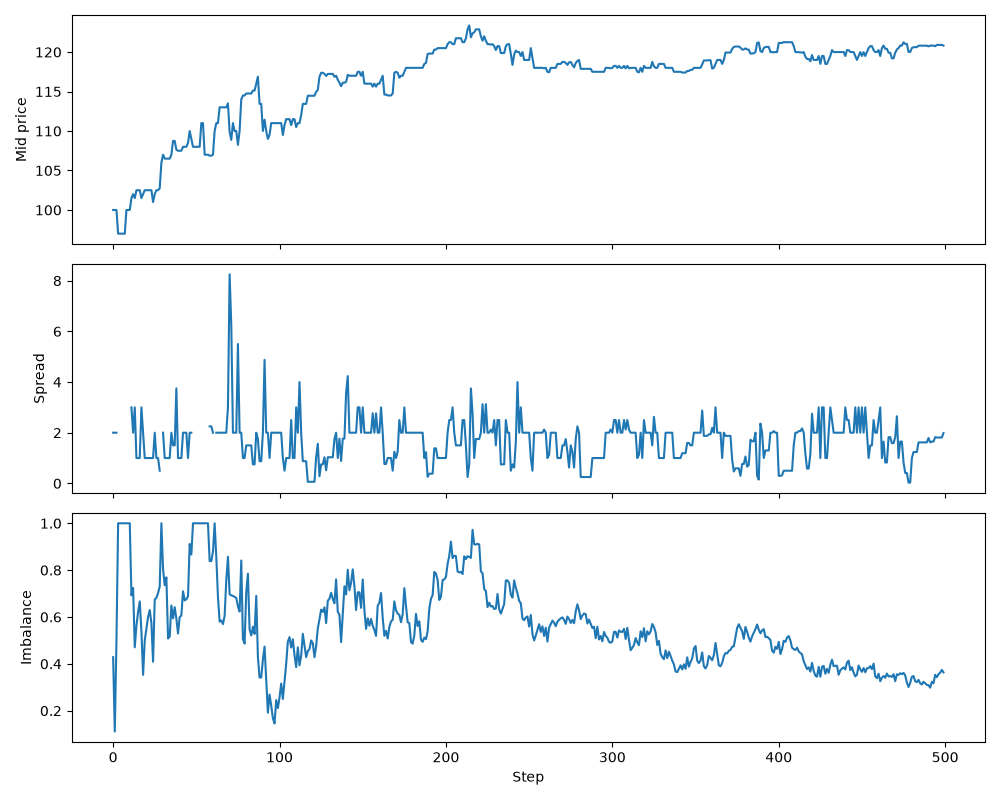
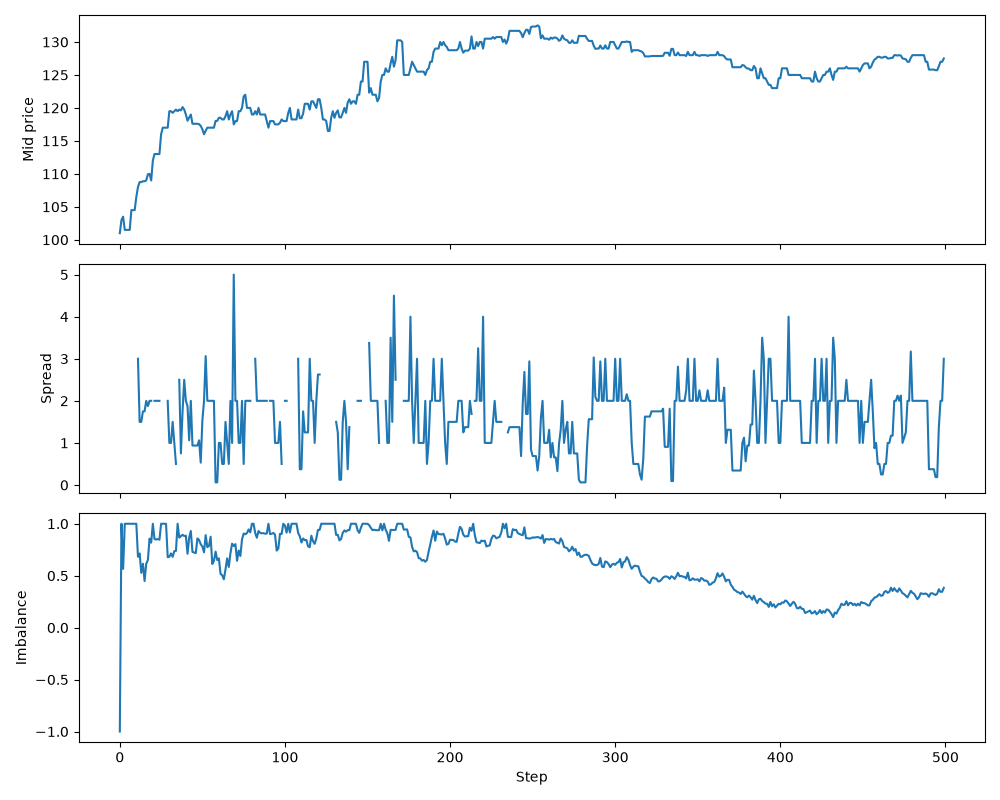
heap-based index update

diff --git a/benchmarks/bench_best_price.py b/benchmarks/bench_best_price.py
@@ -1,0 +1,57 @@
+# benchmarks/bench_best_price.py
+"""
+Compares the old approach (max()/min() over every price level) against
+the heap-based lookup now used in LimitOrderBook._best_bid()/_best_ask(),
+across a growing number of price levels.
+
+Run: python benchmarks/bench_best_price.py
+"""
+
+import heapq
+import random
+import time
+
+
+def bench_dict_max(n_levels: int, n_calls: int) -> float:
+    """The old approach: O(n) scan over every price level on every call."""
+    # Build a dict of n_levels random "prices" -> dummy value, same shape as
+    # LimitOrderBook.bids. Values don't matter here, only the keys (prices).
+    d = {float(p): 1 for p in random.sample(range(1, 1_000_000), n_levels)}
+
+    start = time.perf_counter()
+    for _ in range(n_calls):
+        max(d.keys())  # O(n): has to look at every key to find the biggest one
+    return time.perf_counter() - start  # total time for n_calls lookups
+
+
+def bench_heap(n_levels: int, n_calls: int) -> float:
+    """The new approach: O(1) peek at the top of a heap-based index."""
+    d = {float(p): 1 for p in random.sample(range(1, 1_000_000), n_levels)}
+
+    # Negate every price so a min-heap behaves like a max-heap (see book.py's
+    # _bid_heap for the real version of this trick).
+    heap = [-p for p in d]
+    heapq.heapify(heap)  # O(n), but only paid once here, not once per lookup
+
+    start = time.perf_counter()
+    for _ in range(n_calls):
+        # This loop is the same lazy-deletion logic as _best_bid()/_best_ask():
+        # peek the top, and only pop if it's stale. In this benchmark nothing
+        # is ever deleted from `d`, so the top is always valid and this loop
+        # body runs exactly once per call -> O(1) in practice.
+        while heap:
+            price = -heap[0]  # O(1): just reading index 0, undoing the negation
+            if price in d:  # O(1): dict membership check
+                break  # top of heap is still a real price level - that's our answer
+            heapq.heappop(heap)  # stale entry (would only happen after a deletion)
+    return time.perf_counter() - start
+
+
+if __name__ == "__main__":
+    print(f"{'levels':>8}  {'dict max()':>12}  {'heap peek':>12}  {'speedup':>8}")
+    for n in [10, 100, 1_000, 10_000, 50_000]:
+        # Same n_levels and n_calls for both, so the only thing that differs
+        # between the two timings is O(n) scan vs O(1) peek.
+        t_dict = bench_dict_max(n, 5000)
+        t_heap = bench_heap(n, 5000)
+        print(f"{n:8d}  {t_dict * 1000:10.2f}ms  {t_heap * 1000:10.2f}ms  {t_dict / t_heap:7.1f}x")

diff --git a/lob/book.py b/lob/book.py
@@ -1,6 +1,7 @@
 # lob/book.py
 
 from collections import deque
+import heapq
 from typing import Any, Deque, Dict, List, Literal, Optional, Tuple
 
 Side = Literal["buy", "sell"]
@@ -27,11 +28,25 @@ class LimitOrderBook:
             None  # cached mid price, used as a fallback once the book empties out
         )
 
+        # heaps - see read_me and benchmarks/bench_best_price.py for why we use heaps to track best bid/ask
+        self._bid_heap: List[float] = []
+        self._ask_heap: List[float] = []
+
     def _best_bid(self) -> Optional[float]:
-        return max(self.bids.keys()) if self.bids else None  # Returns the highest bid price
+        while self._bid_heap:
+            price = -self._bid_heap[0]
+            if price in self.bids:
+                return price
+            heapq.heappop(self._bid_heap)  # stale entry: that price level no longer exists
+        return None
 
     def _best_ask(self) -> Optional[float]:
-        return min(self.asks.keys()) if self.asks else None  # returns min ask price
+        while self._ask_heap:
+            price = self._ask_heap[0]
+            if price in self.asks:
+                return price
+            heapq.heappop(self._ask_heap)  # stale entry: that price level no longer exists
+        return None
 
     def add_limit_order(self, order: Order) -> None:
         """Add a limit order to the book or match it if marketable."""
@@ -72,9 +87,9 @@ class LimitOrderBook:
 
         # If remaining size, add to book
         if order.size > 0:
-            self.bids.setdefault(order.price, deque()).append(
-                order
-            )  # setdefault ensures a queue exists at that price. Append adds order to end of queue.
+            if order.price not in self.bids:
+                heapq.heappush(self._bid_heap, -order.price)  # new price level: index it
+            self.bids.setdefault(order.price, deque()).append(order)  # setdefault ensures a queue exists at that price. Append adds order to end of queue.
 
     def _match_sell(self, order: Order) -> None:
         while order.size > 0 and self.bids:
@@ -102,6 +117,8 @@ class LimitOrderBook:
 
         # If remaining size, add to book
         if order.size > 0:
+            if order.price not in self.asks:
+                heapq.heappush(self._ask_heap, order.price)  # new price level: index it
             self.asks.setdefault(order.price, deque()).append(order)
 
     def snapshot(self) -> Dict[str, Any]:

diff --git a/tests/test_book.py b/tests/test_book.py
@@ -35,6 +35,54 @@ def test_best_bid_and_ask_track_multiple_price_levels():
     assert book._best_ask() == 101
 
 
+# ---- best price heap (lazy-deletion correctness) ----
+
+
+def test_best_bid_survives_out_of_order_inserts_and_removals():
+    book = make_book()
+    book.add_limit_order(Order(1, "buy", 95, 5))
+    book.add_limit_order(Order(2, "buy", 105, 5))
+    book.add_limit_order(Order(3, "buy", 100, 5))
+    assert book._best_bid() == 105
+
+    book.cancel_order(2)  # remove the current best bid's whole price level
+    assert book._best_bid() == 100
+
+    book.cancel_order(3)
+    assert book._best_bid() == 95
+
+    book.cancel_order(1)
+    assert book._best_bid() is None
+
+
+def test_best_bid_correct_after_levels_matched_away():
+    book = make_book()
+    for order_id, price in enumerate([98, 102, 95, 110, 90], start=1):
+        book.add_limit_order(Order(order_id, "buy", price, 5))
+    assert book._best_bid() == 110
+
+    book.add_market_order("sell", 5)  # sweeps the 110 level entirely
+    assert book._best_bid() == 102
+
+    book.add_market_order("sell", 5)  # sweeps the 102 level entirely
+    assert book._best_bid() == 98
+
+
+def test_best_ask_correct_after_price_level_emptied_and_reused():
+    book = make_book()
+    book.add_limit_order(Order(1, "sell", 101, 5))
+    assert book._best_ask() == 101
+
+    book.cancel_order(1)  # price level 101 is gone; its heap entry is now stale
+    assert book._best_ask() is None
+
+    book.add_limit_order(Order(2, "sell", 101, 3))  # a new order reuses the same price
+    assert book._best_ask() == 101
+
+    book.cancel_order(2)
+    assert book._best_ask() is None
+
+
 # ---- matching ----
 
 

diff --git a/README.md b/README.md
@@ -2,32 +2,39 @@
 
 ![Tests](https://github.com/camm999/Market-sim/actions/workflows/tests.yml/badge.svg)
 
-A limit order book (LOB) simulator written from scratch in Python — the matching engine, random order flow, a simple market-making agent, and metrics tracking, with a small pytest suite covering the core engine.
+A limit order book (LOB) simulator written from scratch in Python — the matching engine, random order flow, two contrasting trading agents, and metrics tracking, with a pytest suite and mypy checking the core engine.
 
 ## Features
 
-- **Matching engine** (`lob/book.py`) — limit and market orders, price-time priority, partial fills, cancellation.
+- **Matching engine** (`lob/book.py`) — limit and market orders, price-time priority, partial fills, cancellation. Best bid/ask lookup is heap-based (`O(log n)` amortized) rather than scanning every price level.
 - **Random order flow** (`simulator/random_flow.py`) — Poisson-style arrivals of random limit/market orders around the mid price, to simulate a live market.
-- **Market maker** (`simulator/market_maker.py`) — a simple agent that continuously quotes a bid and ask around mid, tracks its own inventory/cash, and skews its quotes against inventory to manage risk.
+- **Market maker** (`simulator/market_maker.py`) — quotes a bid and ask around mid every step, tracks its own inventory/cash, and skews its quotes against inventory to manage risk.
+- **Imbalance trader** (`simulator/imbalance_trader.py`) — a contrasting agent that trades *with* the book's imbalance instead of against its own inventory.
 - **Metrics** (`metrics/metrics.py`) — tracks mid price, spread, depth, and order book imbalance over a run, and plots them.
-- **Tests** (`tests/test_book.py`) — pytest unit tests covering matching, price-time priority, partial fills, market order sweeps, and cancellation.
+- **Tests** (`tests/`) — pytest unit tests covering matching, price-time priority, partial fills, cancellation, and both agents; mypy runs in CI alongside pytest.
+- **Benchmarks** (`benchmarks/`) — measures the heap-based best bid/ask lookup against the naive scan it replaced.
 
 ## Project structure
 
 ```
 market_sim/
 ├── lob/
-│   └── book.py           # core order book: Order, LimitOrderBook
+│   └── book.py                  # core order book: Order, LimitOrderBook
 ├── simulator/
-│   ├── random_flow.py    # random order flow generator
-│   └── market_maker.py   # market-making agent
+│   ├── random_flow.py           # random order flow generator
+│   ├── market_maker.py          # market-making agent
+│   └── imbalance_trader.py      # imbalance-following agent
 ├── metrics/
-│   └── metrics.py        # metrics tracking + plotting
+│   └── metrics.py               # metrics tracking + plotting
 ├── tests/
-│   └── test_book.py      # pytest unit tests
-├── main.py                # demo entry point
+│   ├── test_book.py             # matching engine tests
+│   ├── test_market_maker.py
+│   └── test_imbalance_trader.py
+├── benchmarks/
+│   └── bench_best_price.py      # best bid/ask lookup benchmark
+├── main.py                       # demo entry point
 ├── requirements.txt
-└── diary.md               # dev log
+└── diary.md                      # dev log
 ```
 
 ## Quickstart
@@ -45,6 +52,7 @@ python main.py
 
 ```bash
 python -m pytest -v
+python -m mypy lob simulator metrics --ignore-missing-imports --explicit-package-bases
 ```
 
 ## How the order book works
@@ -60,6 +68,23 @@ When a new order arrives, the exchange checks whether its price is good enough t
 ## How the market maker works
 
 A market maker doesn't bet on direction — it continuously posts both a bid and an ask around the current price, earning the spread on round trips. In exchange for supplying that liquidity, it absorbs inventory risk: every fill pushes its position long or short, so `MarketMaker` skews its quotes against its own inventory (long → quote lower, short → quote higher) to lean back toward flat instead of letting risk build up unbounded, and stops adding to a side once a configurable `max_inventory` limit is hit.
+
+## Performance
+
+`_best_bid()`/`_best_ask()` used to scan every resting price level with `max()`/`min()` on every call — `O(n)` in the number of price levels, and these are called on nearly every operation. They're now backed by a heap (bids negated to simulate a max-heap; lazy deletion for entries whose price level has since emptied out), which keeps lookups `O(log n)` amortized regardless of how many levels are resting.
+
+```bash
+python benchmarks/bench_best_price.py
+```
+
+```
+  levels    dict max()     heap peek   speedup
+      10        1.32ms        0.40ms      3.3x
+     100        6.61ms        0.34ms     19.4x
+    1000       60.36ms        0.35ms    174.4x
+   10000      475.84ms        0.24ms   1987.7x
+   50000     2864.49ms        0.27ms  10423.9x
+```
 
 ## Example output
 

diff --git a/diary.md b/diary.md
@@ -62,3 +62,9 @@ Wrapping up for today. Reminder: git doesn't auto-sync — after editing anythin
 Punch list is now fully done: tests, README, requirements.txt, CI (pytest + mypy), two contrasting trading agents, type hints. Nothing left on the to-do list.
 
 Did an appearance/cleanup pass before starting a new project. Found: `simulator/random_flow.py` used 8-space indentation everywhere (inconsistent with every other file's 4-space), inconsistent operator spacing across `book.py`/`main.py` (`while size>0`, `side= "buy"`, etc.), unused imports (`random`/`time`/`numpy` in `book.py`, `deque`/`numpy` in `random_flow.py`), and `cancel_order`'s not-found path was `return print(...)` (confusing — using print's `None` return as the function's return). Removed the unused imports and fixed `cancel_order`, then ran `black --line-length 100` across the whole codebase to normalize everything else in one pass. 30 tests still pass, mypy still clean, `main.py` still runs correctly. Deliberately did *not* pin black's config or add it to CI — one-time reformat only, by choice.
+
+Speed up the matching engine: `_best_bid()`/`_best_ask()` used to do `max()`/`min()` over every price level's dict key every single call — `O(n)`, and they get called on nearly every operation. Replaced with a heap-based index (`_bid_heap`/`_ask_heap`) alongside each dict: bids store negated prices to simulate a max-heap since `heapq` is min-heap only. Heaps can't cheaply delete from the middle, so used lazy deletion (the pattern `heapq`'s own docs recommend) — stale entries (price level fully matched/cancelled away) get left in place and discarded the next time they'd be the answer, each one only ever popped once, keeping it `O(log n)` amortized. Pushed onto the heap only at the two spots a genuinely new price level gets created (the resting-remainder branches in `_match_buy`/`_match_sell`); deletions need no heap changes at all, that's the whole point of the lazy approach.
+
+Added 3 new tests specifically targeting the lazy-deletion mechanism (out-of-order inserts/removals, levels matched away, a price level emptied then reused later — the case where the heap can end up with a stale + live entry for the same price simultaneously). 33 tests total, all passing, mypy clean.
+
+Added `benchmarks/bench_best_price.py` to actually measure the claim instead of just asserting it: dict `max()` scales linearly with price levels (2.86s at 50k levels), heap peek stays flat (~0.2-0.4ms) regardless of depth — a ~10,000x difference at 50k levels. Updated README with a Performance section showing the numbers, and refreshed the Features/Project structure sections which had gone stale (missing `ImbalanceTrader`, the newer test files, mypy).
